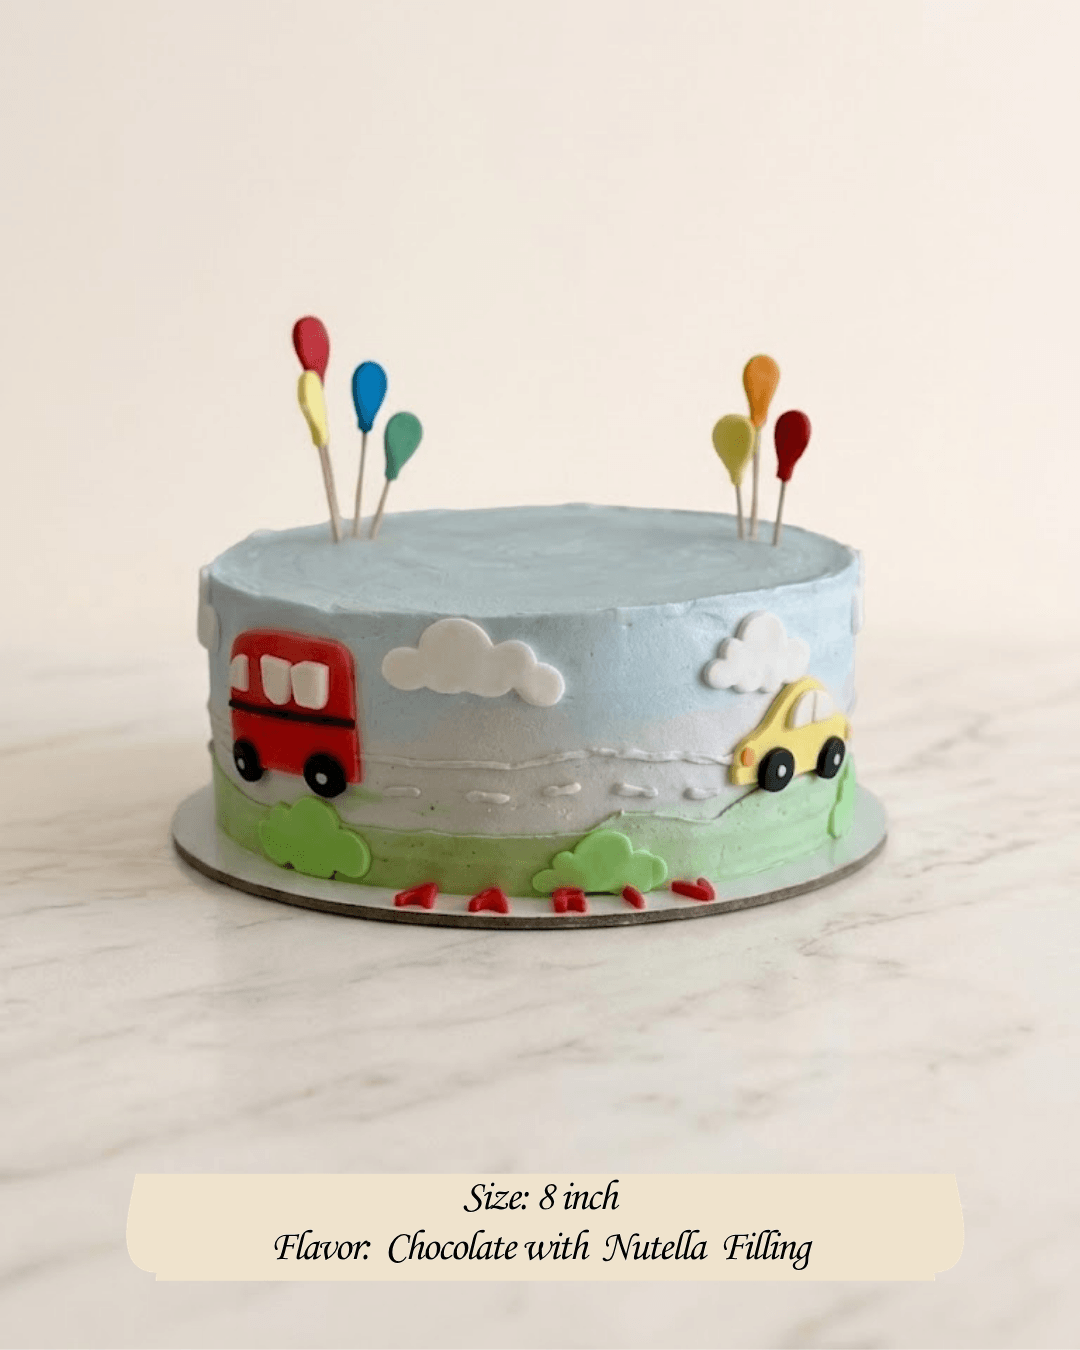
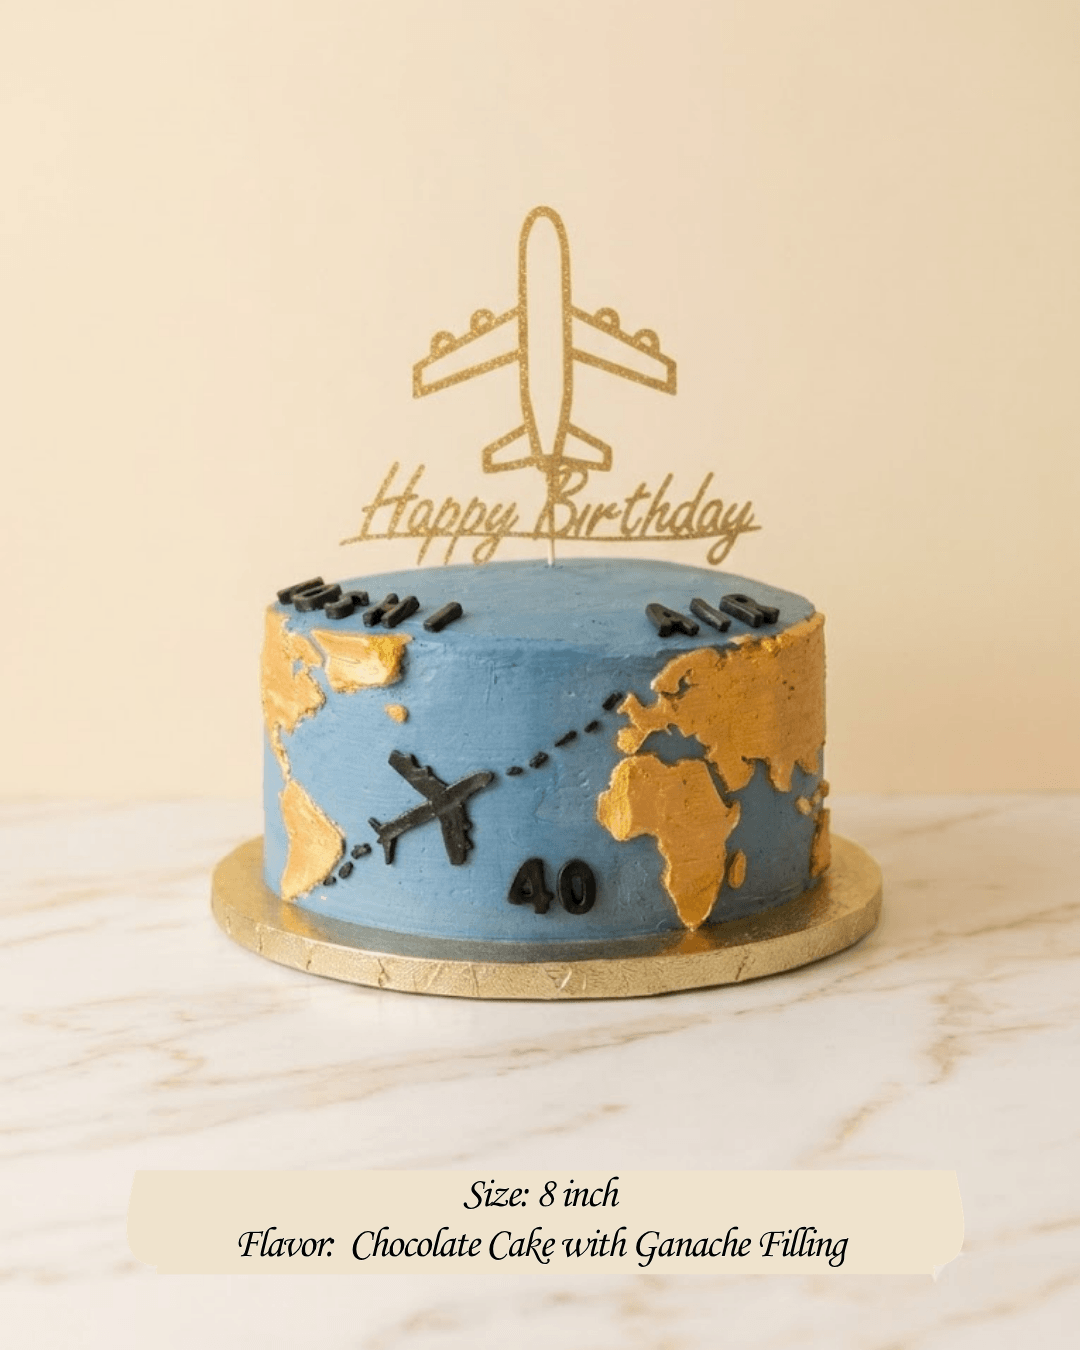
testmonials

diff --git a/index.html b/index.html
@@ -1285,6 +1285,158 @@
     z-index: 1;
   }
 
+  /* ---------- testimonials ---------- */
+.testimonials {
+  padding: 100px 0;
+  background: var(--cream);
+}
+
+.testimonials-grid {
+  display: grid;
+  grid-template-columns: repeat(auto-fit, minmax(280px, 1fr));
+  gap: 30px;
+  margin-top: 20px;
+}
+
+.testimonial-card {
+  background: var(--white);
+  border-radius: 18px;
+  padding: 30px 28px;
+  box-shadow: 0 8px 30px -20px rgba(61, 43, 33, 0.3);
+  border: 1px solid rgba(61, 43, 33, 0.06);
+  transition: transform 0.25s ease, box-shadow 0.25s ease;
+  display: flex;
+  flex-direction: column;
+  justify-content: space-between;
+}
+
+.testimonial-card:hover {
+  transform: translateY(-4px);
+  box-shadow: 0 16px 40px -24px rgba(61, 43, 33, 0.35);
+}
+
+.testimonial-content p {
+  font-size: 1rem;
+  line-height: 1.7;
+  color: var(--brown-700);
+  margin: 0 0 20px 0;
+  font-style: italic;
+}
+
+.testimonial-content p::before {
+  content: '"';
+  font-family: var(--script);
+  font-size: 2.2rem;
+  color: var(--blush);
+  line-height: 1;
+  margin-right: 4px;
+  display: inline-block;
+  vertical-align: middle;
+}
+
+.testimonial-content p::after {
+  content: '"';
+  font-family: var(--script);
+  font-size: 2.2rem;
+  color: var(--blush);
+  line-height: 1;
+  margin-left: 4px;
+  display: inline-block;
+  vertical-align: middle;
+}
+
+.testimonial-author {
+  display: flex;
+  align-items: center;
+  gap: 14px;
+  padding-top: 16px;
+  border-top: 1px solid rgba(61, 43, 33, 0.06);
+  margin-top: auto;
+}
+
+.author-avatar {
+  width: 44px;
+  height: 44px;
+  border-radius: 50%;
+  background: var(--cream-soft);
+  color: var(--brown-900);
+  display: flex;
+  align-items: center;
+  justify-content: center;
+  font-weight: 600;
+  font-size: 1.1rem;
+  flex-shrink: 0;
+}
+
+.author-info {
+  display: flex;
+  flex-direction: column;
+  gap: 2px;
+}
+
+.author-name {
+  font-weight: 600;
+  color: var(--brown-900);
+  font-size: 0.95rem;
+}
+
+.author-order {
+  font-size: 0.8rem;
+  color: var(--brown-500);
+  font-weight: 500;
+}
+
+/* Responsive adjustments */
+@media (max-width: 768px) {
+  .testimonials {
+    padding: 70px 0;
+  }
+
+  .testimonials-grid {
+    grid-template-columns: 1fr;
+    gap: 20px;
+  }
+
+  .testimonial-card {
+    padding: 24px 20px;
+  }
+
+  .testimonial-content p {
+    font-size: 0.95rem;
+  }
+}
+
+@media (max-width: 480px) {
+  .testimonials {
+    padding: 50px 0;
+  }
+
+  .testimonial-card {
+    padding: 20px 16px;
+  }
+
+  .testimonial-content p {
+    font-size: 0.9rem;
+  }
+
+  .author-avatar {
+    width: 38px;
+    height: 38px;
+    font-size: 0.95rem;
+  }
+
+  .author-name {
+    font-size: 0.88rem;
+  }
+
+  .author-order {
+    font-size: 0.75rem;
+  }
+}
+
+
+
+
 </style>
 </head>
 <body>
